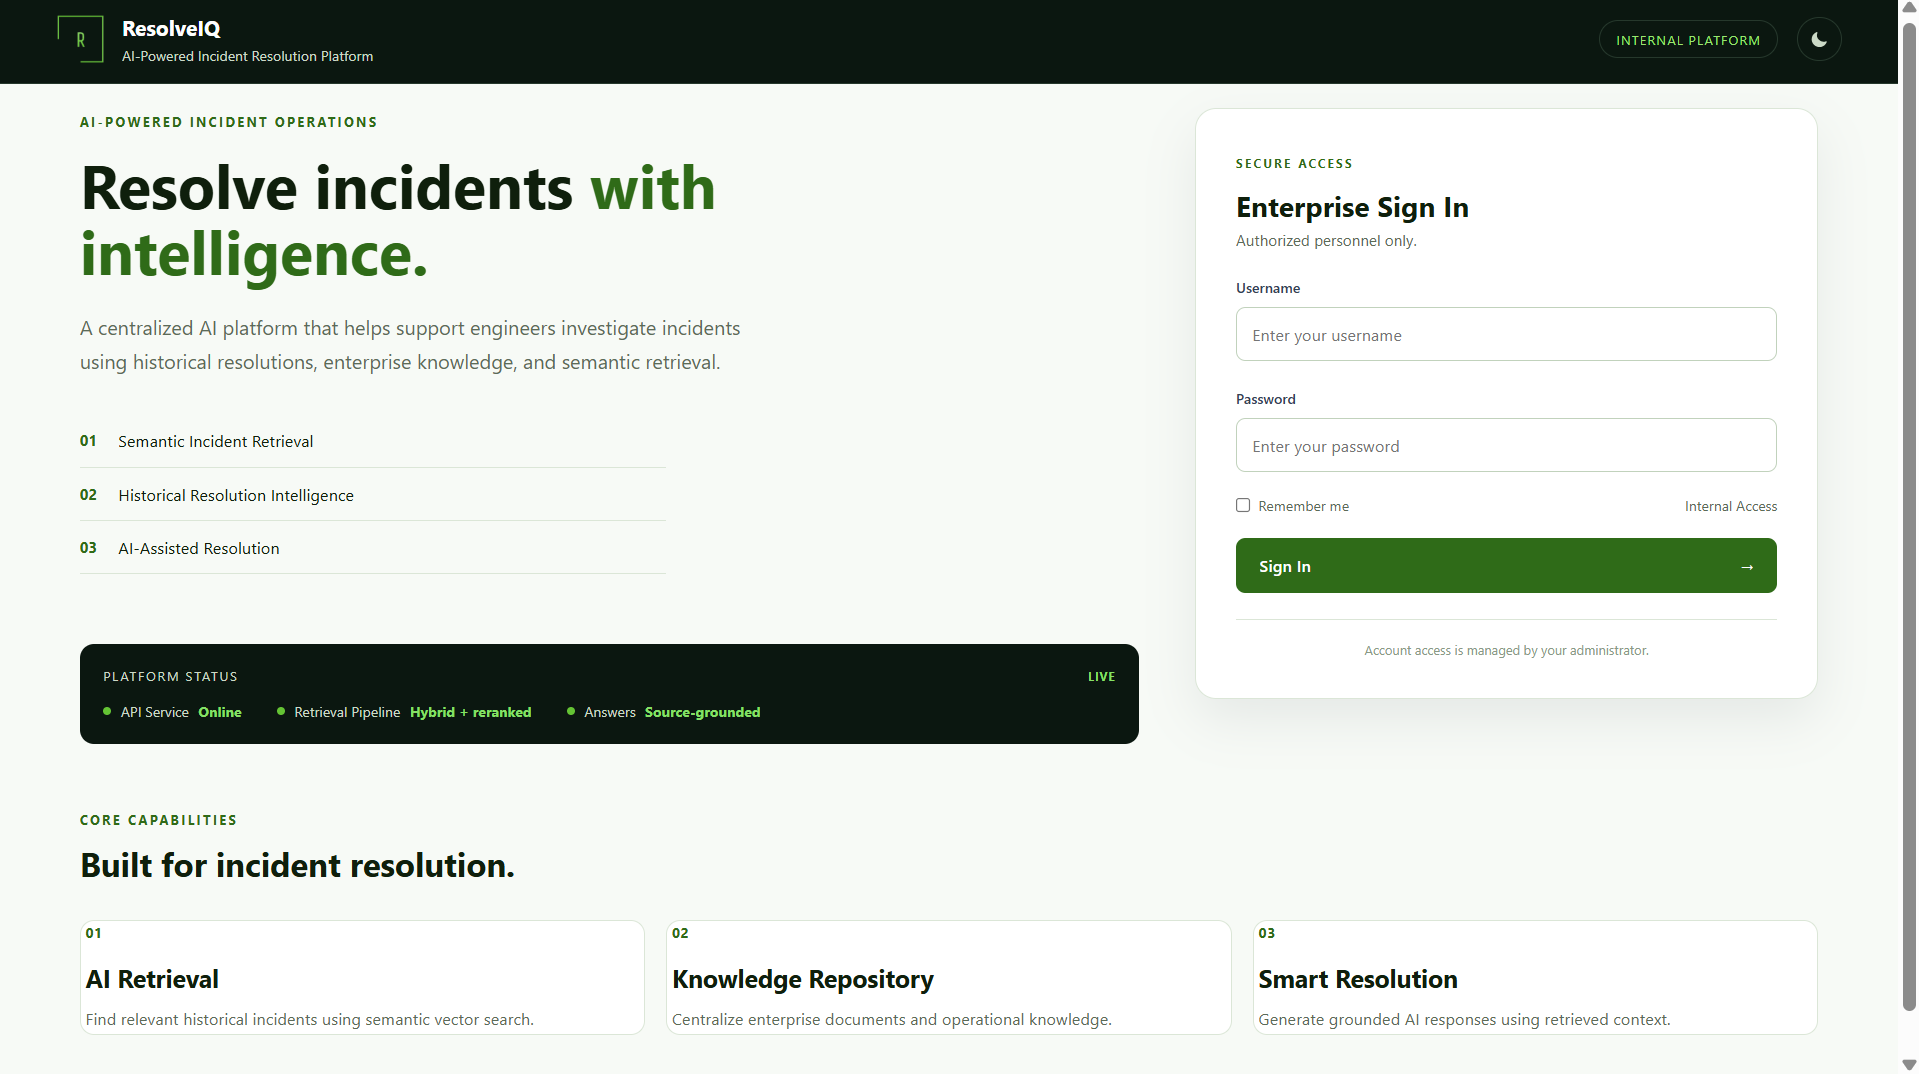
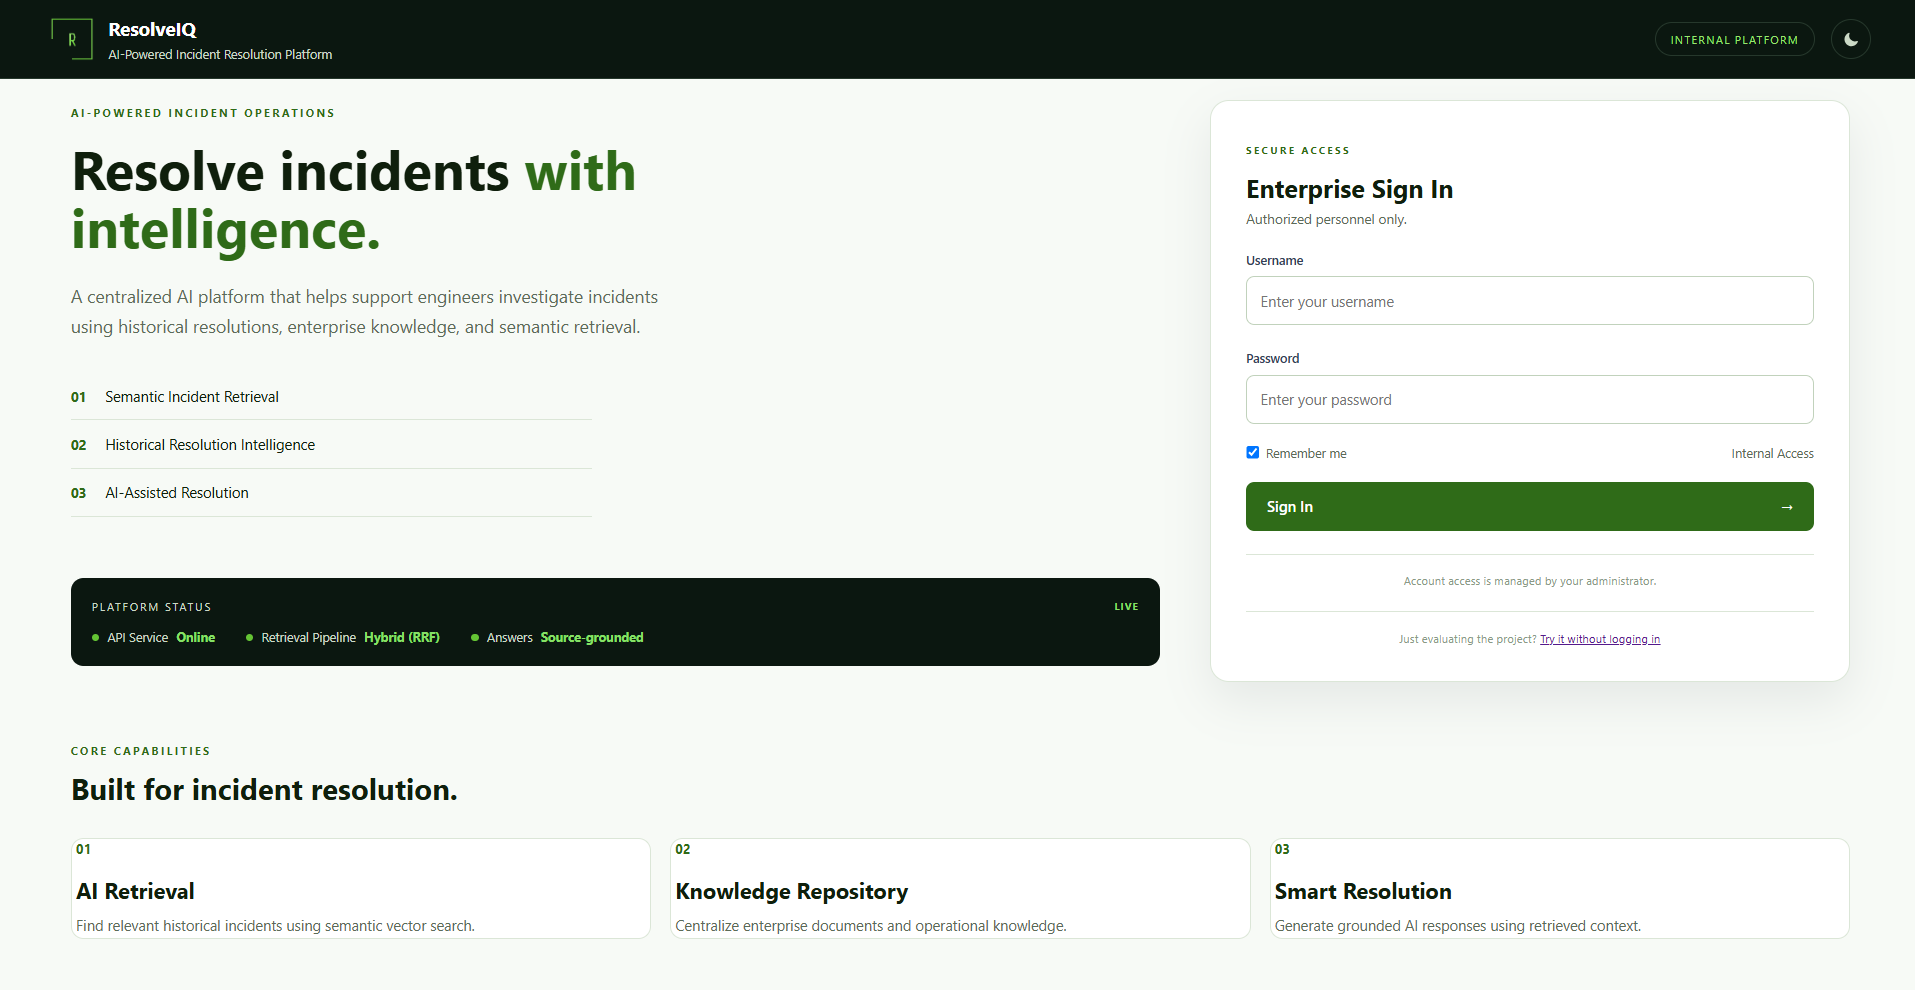
Update README and system health screenshots to reflect Supabase production mode

diff --git a/README.md b/README.md
@@ -203,9 +203,10 @@ The frontend runs at `http://localhost:5173` and uses `VITE_API_BASE_URL=http://
 | Variable | Required | Purpose |
 |---|---:|---|
 | `GEMINI_API_KEY` | Yes | Gemini answer generation and Gemini embeddings |
-| `JWT_SECRET_KEY` | Yes | JWT signing and verification |
+| `JWT_SECRET_KEY` | Yes | JWT signing and verification; must be a random value at least 32 characters long — short or common placeholder values are rejected at startup |
 | `ENVIRONMENT` | No | Use `production` to disable API docs and local CORS origins |
 | `FRONTEND_ORIGIN` | Production | Comma-separated allowed frontend origins |
+| `TRUSTED_PROXY_COUNT` | No | Number of trusted reverse proxies in front of the API (e.g. Render's edge); defaults to `1`. Used to pick the correct client IP out of `X-Forwarded-For` for rate limiting instead of trusting a client-supplied value |
 | `PERSISTENCE_BACKEND` | No | `local` for development or `supabase` for durable production state |
 | `DATA_DIR` | Local only | Local runtime directory; defaults to repository `data/` |
 | `SUPABASE_DATABASE_URL` | Supabase | Server-only PostgreSQL Session pooler URL |
